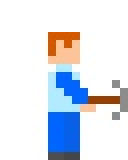
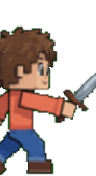
feat: restore original orange-hoodie hero sprites (v1.9.013)
Drop the procedural South Park-style block figure. Draw the painted
original character PNGs again (idle/walk/jump/mine/etc.) with uniform
96×176 scale. Walk cycle uses clean side-view strides (0-1-2-1).

diff --git a/js/render/index.js b/js/render/index.js
@@ -9,7 +9,7 @@ import { itemName, isBlockItem } from '../content/items.js';
 import {
   wrapX, getTile, getLight, getRenderLight, lightToBrightness, isSolid, biomeNameAt,
 } from '../world/index.js';
-import { textures, getCubeTex, getTileTex, getSoftTex, getItemIcon } from '../textures/textures.js';
+import { textures, getCubeTex, getTileTex, getSoftTex, getPlayerFrame, getItemIcon } from '../textures/textures.js';
 import { drawEntities } from '../entities/draw.js';
 import { drawParticles } from '../particles/particles.js';
 import { HOTBAR_SIZE, BAG_SIZE, canCraft, bagUsed, countItem } from '../inventory/inventory.js';
@@ -859,221 +859,47 @@ export function drawPlayer(ctx, p, cam, ts, inv) {
     ctx.globalAlpha = 0.45;
   }
 
-  ctx.fillStyle = 'rgba(0,0,0,0.30)';
+  // Soft ground shadow
+  const shadowW = pw * (0.55 + run * 0.1);
+  ctx.fillStyle = 'rgba(0,0,0,0.28)';
   ctx.beginPath();
-  ctx.ellipse(sx, sy - 1, pw * (0.5 + run * 0.12), 4.2, 0, 0, Math.PI * 2);
+  ctx.ellipse(sx, sy - 1, shadowW, 4.5, 0, 0, Math.PI * 2);
   ctx.fill();
 
-  if (p.inBoat) {
+  // Procedural boat under sprite if boat frame is missing
+  if (p.inBoat && !(textures.playerAnims && textures.playerAnims.boat)) {
     ctx.fillStyle = '#8b5a2b';
     ctx.beginPath();
-    ctx.ellipse(sx, sy - 4, pw * 1.15, 8, 0, 0, Math.PI * 2);
+    ctx.ellipse(sx, sy - 4, pw * 1.1, 8, 0, 0, Math.PI * 2);
     ctx.fill();
     ctx.fillStyle = '#c49a5a';
     ctx.fillRect(sx - pw * 0.9, sy - 10, pw * 1.8, 6);
   }
 
-  const footY = sy + (p.inBoat ? -6 : 0);
-  const drawH = ph * (p.crouching ? 0.88 : 1.05);
-  ctx.save();
-  ctx.translate(sx, footY);
-  if (p.facing < 0) ctx.scale(-1, 1);
-  drawHeroSide(ctx, p, drawH);
-  ctx.restore();
-
-  ctx.restore();
-}
-
-/**
- * Original Blockbound hero (orange hoodie, curly hair, jeans) —
- * side view, feet at origin, faces +X.
- * Limbs pivot from hips/shoulders for a real forward/back stride.
- */
-function drawHeroSide(ctx, p, H) {
-  const crouch = !!p.crouching;
-  const walking = p.onGround && Math.abs(p.vx) > 0.25 && !crouch;
-  const airborne = !p.onGround;
-  const mining = !!(p.mining && p.mining.progress > 0);
-  const swinging = (p.attackT || 0) > 0;
-
-  const sprint = p.sprinting ? 1.18 : 1;
-  const phase = p.anim * 2.55 * sprint;
-  const step = walking ? Math.sin(phase) : airborne ? 0.5 : 0;
-  const bob = walking ? Math.abs(Math.sin(phase)) * (H * 0.03) : 0;
-
-  // Slightly taller/softer proportions than pure Steve (matches original art)
-  const u = H / 34;
-  const headS = 9.2 * u;
-  const torsoH = (crouch ? 10 : 12.5) * u;
-  const torsoW = 9 * u;
-  const limbW = 3.8 * u;
-  const legH = (crouch ? 8 : 12.5) * u;
-  const armH = 12 * u;
-
-  const maxLeg = walking ? 0.78 : airborne ? 0.4 : 0.06;
-  const maxArm = walking ? 0.82 : 0.1;
-  const legA = step * maxLeg;
-  const legB = -step * maxLeg;
-  let armA = step * maxArm;
-  let armB = -step * maxArm;
-
-  if (mining || swinging) {
-    const t = mining ? p.mining.progress * 8 : (p.attackT || 0) * 14;
-    armB = -0.4 - Math.sin(t) * 1.2;
-  }
-
-  // Original character palette (orange hoodie boy)
-  const skin = '#e8b896';
-  const skinSh = '#d49a72';
-  const hoodie = '#e85d3a';
-  const hoodieSh = '#c44a2c';
-  const hoodieHi = '#f07855';
-  const jeans = '#3a5fad';
-  const jeansSh = '#2a4688';
-  const hair = '#6b4423';
-  const hairSh = '#4a2e16';
-  const hairHi = '#8a5a32';
-  const boot = '#3d2918';
-  const bootHi = '#5a3d24';
-
-  const hipY = -bob - legH;
-  const shoulderY = hipY - torsoH;
-  const headY = shoulderY - headS + u * 0.4;
-  const lean = walking ? step * 0.05 : 0;
-
-  function limb(px, py, angle, w, h, fill, isLeg) {
+  const img = getPlayerFrame(p, inv) || textures.player;
+  if (img) {
+    // Fixed draw size for ALL frames so jump/mine never shrink the character.
+    // Original hero sprites are 96×176 with feet on the bottom edge.
+    const drawH = ph * (p.crouching ? 0.92 : 1.12);
+    const drawW = drawH * (96 / 176);
+    const footY = sy + (p.inBoat ? -6 : 0);
     ctx.save();
-    ctx.translate(px, py);
-    ctx.rotate(angle);
-    ctx.fillStyle = fill;
-    // Slightly rounded look via double rect (blocky but soft edge)
-    ctx.fillRect(-w / 2, 0, w, h);
-    if (isLeg) {
-      // boot
-      ctx.fillStyle = boot;
-      ctx.fillRect(-w / 2 - u * 0.2, h - u * 1.5, w + u * 0.7, u * 1.65);
-      ctx.fillStyle = bootHi;
-      ctx.fillRect(-w / 2 - u * 0.1, h - u * 1.5, w + u * 0.35, u * 0.45);
-    } else {
-      // hand
-      ctx.fillStyle = skin;
-      ctx.fillRect(-w / 2 + u * 0.1, h - w * 0.92, w * 0.9, w * 0.9);
-    }
+    ctx.translate(sx, footY);
+    if (p.facing < 0) ctx.scale(-1, 1);
+    ctx.imageSmoothingEnabled = false; // crisp pixel art
+    ctx.drawImage(img, -drawW / 2, -drawH, drawW, drawH);
     ctx.restore();
+  } else {
+    // Minimal procedural fallback (orange hoodie)
+    const bob = walking ? Math.abs(Math.sin(p.anim * 2)) * 2 : 0;
+    const bodyTop = sy - ph + bob;
+    ctx.fillStyle = '#ee6c4d';
+    roundRect(ctx, sx - pw * 0.4, bodyTop + ph * 0.25, pw * 0.8, ph * 0.45, 3);
+    ctx.fill();
+    ctx.fillStyle = '#e8c49a';
+    roundRect(ctx, sx - pw * 0.35, bodyTop, pw * 0.7, ph * 0.28, 4);
+    ctx.fill();
   }
-
-  const farHipX = -limbW * 0.4;
-  const nearHipX = limbW * 0.4;
-  const farShX = -torsoW / 2 + limbW * 0.2;
-  const nearShX = torsoW / 2 - limbW * 0.2;
-
-  // FAR limbs (behind)
-  limb(farHipX, hipY, legA, limbW, legH, jeansSh, true);
-  limb(farShX, shoulderY, armA, limbW * 0.95, armH, hoodieSh, false);
-
-  // Torso / hoodie
-  ctx.save();
-  ctx.translate(0, hipY);
-  ctx.rotate(lean);
-  // hoodie body
-  ctx.fillStyle = hoodie;
-  ctx.fillRect(-torsoW / 2, -torsoH, torsoW, torsoH);
-  // shade
-  ctx.fillStyle = hoodieSh;
-  ctx.fillRect(torsoW / 2 - u * 1.6, -torsoH, u * 1.6, torsoH);
-  // hood/collar fold at top of torso
-  ctx.fillStyle = hoodieHi;
-  ctx.fillRect(-torsoW / 2, -torsoH, torsoW, u * 1.4);
-  ctx.fillStyle = hoodieSh;
-  ctx.fillRect(-torsoW / 2 + u * 0.5, -torsoH + u * 0.3, torsoW - u, u * 0.9);
-  // pocket
-  ctx.fillStyle = hoodieSh;
-  ctx.fillRect(-u * 1.6, -torsoH * 0.45, u * 3.2, u * 2.2);
-  // waist / jeans peek
-  ctx.fillStyle = jeans;
-  ctx.fillRect(-torsoW / 2 + u * 0.3, -u * 1.4, torsoW - u * 0.6, u * 1.5);
-  ctx.restore();
-
-  // NEAR limbs (front)
-  limb(nearHipX, hipY, legB, limbW, legH, jeans, true);
-  limb(nearShX, shoulderY, armB, limbW * 0.95, armH, hoodie, false);
-
-  // Tool while mining / attacking
-  if (mining || swinging) {
-    ctx.save();
-    ctx.translate(nearShX, shoulderY);
-    ctx.rotate(armB);
-    ctx.translate(0, armH * 0.9);
-    ctx.rotate(-0.4);
-    ctx.fillStyle = '#6b3f1a';
-    ctx.fillRect(-u * 0.55, -u * 0.3, u * 1.1, armH * 0.55);
-    ctx.fillStyle = '#9aa3ab';
-    ctx.fillRect(-u * 2.5, -u * 2.0, u * 5.0, u * 2.2);
-    ctx.fillStyle = '#6d757c';
-    ctx.fillRect(-u * 2.5, -u * 0.35, u * 5.0, u * 0.65);
-    ctx.restore();
-  }
-
-  // ── Head: original hero face (curly hair, friendly — not googly) ──
-  ctx.save();
-  ctx.translate(lean * torsoH * 0.35, 0);
-
-  // neck
-  ctx.fillStyle = skinSh;
-  ctx.fillRect(-u * 1.4, shoulderY - u * 0.8, u * 2.8, u * 1.2);
-
-  // face block (slightly rounded via layered rects)
-  ctx.fillStyle = skin;
-  ctx.fillRect(-headS / 2, headY, headS, headS * 0.95);
-  ctx.fillStyle = skinSh;
-  ctx.fillRect(headS / 2 - u * 1.3, headY + headS * 0.35, u * 1.3, headS * 0.5);
-
-  // ear
-  ctx.fillStyle = skinSh;
-  ctx.fillRect(-headS / 2 - u * 1.0, headY + headS * 0.36, u * 1.2, headS * 0.26);
-
-  // curly hair mass (messy top + side + fringe)
-  ctx.fillStyle = hair;
-  // main cap
-  ctx.fillRect(-headS / 2 - u * 0.4, headY - u * 1.2, headS + u * 0.8, headS * 0.42);
-  // curls / tufts
-  ctx.fillRect(-headS / 2 - u * 0.8, headY - u * 0.3, u * 2.2, u * 2.0);
-  ctx.fillRect(headS / 2 - u * 1.4, headY - u * 0.6, u * 2.0, u * 1.6);
-  ctx.fillRect(-u * 1.2, headY - u * 2.0, u * 2.4, u * 1.6);
-  ctx.fillRect(u * 0.4, headY - u * 1.8, u * 2.0, u * 1.4);
-  // side hair over ear
-  ctx.fillRect(-headS / 2 - u * 0.5, headY + headS * 0.2, u * 1.8, headS * 0.55);
-  // fringe
-  ctx.fillStyle = hairHi;
-  ctx.fillRect(-headS / 2 + u * 0.3, headY + u * 0.2, headS * 0.55, u * 1.3);
-  ctx.fillStyle = hairSh;
-  ctx.fillRect(-headS / 2 - u * 0.2, headY - u * 0.4, headS * 0.4, u * 1.8);
-
-  // Eyes — dark ovals like the original sprite (small, not googly white discs)
-  const eyeY = headY + headS * 0.42;
-  // white of eye (thin)
-  ctx.fillStyle = '#f4efe8';
-  ctx.fillRect(headS * 0.02, eyeY, headS * 0.32, headS * 0.2);
-  // iris / pupil
-  ctx.fillStyle = '#2a1a10';
-  ctx.fillRect(headS * 0.12, eyeY + u * 0.25, headS * 0.16, headS * 0.14);
-  // tiny specular
-  ctx.fillStyle = '#fff';
-  ctx.fillRect(headS * 0.2, eyeY + u * 0.35, u * 0.45, u * 0.4);
-
-  // brow
-  ctx.fillStyle = hairSh;
-  ctx.fillRect(headS * 0.0, eyeY - u * 0.55, headS * 0.34, u * 0.45);
-
-  // nose
-  ctx.fillStyle = skinSh;
-  ctx.fillRect(headS * 0.26, headY + headS * 0.54, headS * 0.16, headS * 0.12);
-
-  // small smile
-  ctx.fillStyle = '#b07050';
-  ctx.fillRect(headS * 0.04, headY + headS * 0.72, headS * 0.28, u * 0.55);
-  ctx.fillStyle = skin;
-  ctx.fillRect(headS * 0.06, headY + headS * 0.72, headS * 0.24, u * 0.28);
 
   ctx.restore();
 }

diff --git a/js/textures/textures.js b/js/textures/textures.js
@@ -266,13 +266,12 @@ export async function loadTextures() {
     loadImage('assets/bg/clouds.png').then(img => { textures.clouds = img; }).catch(() => { textures.clouds = null; })
   );
   await Promise.all(jobs);
-  // Build walk array for convenience
-  textures.playerAnims.walk = [
-    textures.playerAnims.walk0 || textures.player,
-    textures.playerAnims.walk1 || textures.player,
-    textures.playerAnims.walk2 || textures.player,
-    textures.playerAnims.walk3 || textures.player,
-  ].filter(Boolean);
+  // Walk cycle: 0 / 1 / 2 are clean side-view strides; bounce back through
+  // mid (1) instead of walk3 (which was a front-facing / jump-ish pose).
+  const w0 = textures.playerAnims.walk0 || textures.player;
+  const w1 = textures.playerAnims.walk1 || w0;
+  const w2 = textures.playerAnims.walk2 || w0;
+  textures.playerAnims.walk = [w0, w1, w2, w1].filter(Boolean);
   textures.ready = true;
   return textures;
 }

diff --git a/js/core/constants.js b/js/core/constants.js
@@ -1,6 +1,6 @@
 /** Engine constants — version, viewport, physics. Content catalogs live in content/. */
 
-export const GAME_VERSION = '1.9.012';
+export const GAME_VERSION = '1.9.013';
 export const GAME_VERSION_LABEL = 'v' + GAME_VERSION;
 export const GAME_NAME = 'Blockbound';
 

diff --git a/index.html b/index.html
@@ -155,6 +155,6 @@
   </div>
 
   <!-- ?v= busts sticky SW/browser caches when version bumps -->
-  <script type="module" src="js/main.js?v=1.9.012"></script>
+  <script type="module" src="js/main.js?v=1.9.013"></script>
 </body>
 </html>

diff --git a/sw.js b/sw.js
@@ -1,5 +1,5 @@
 // Blockbound — keep CACHE in sync with GAME_VERSION in js/core/constants.js
-const CACHE = 'blockbound-1.9.012';
+const CACHE = 'blockbound-1.9.013';
 
 const ASSETS = [
   './',
